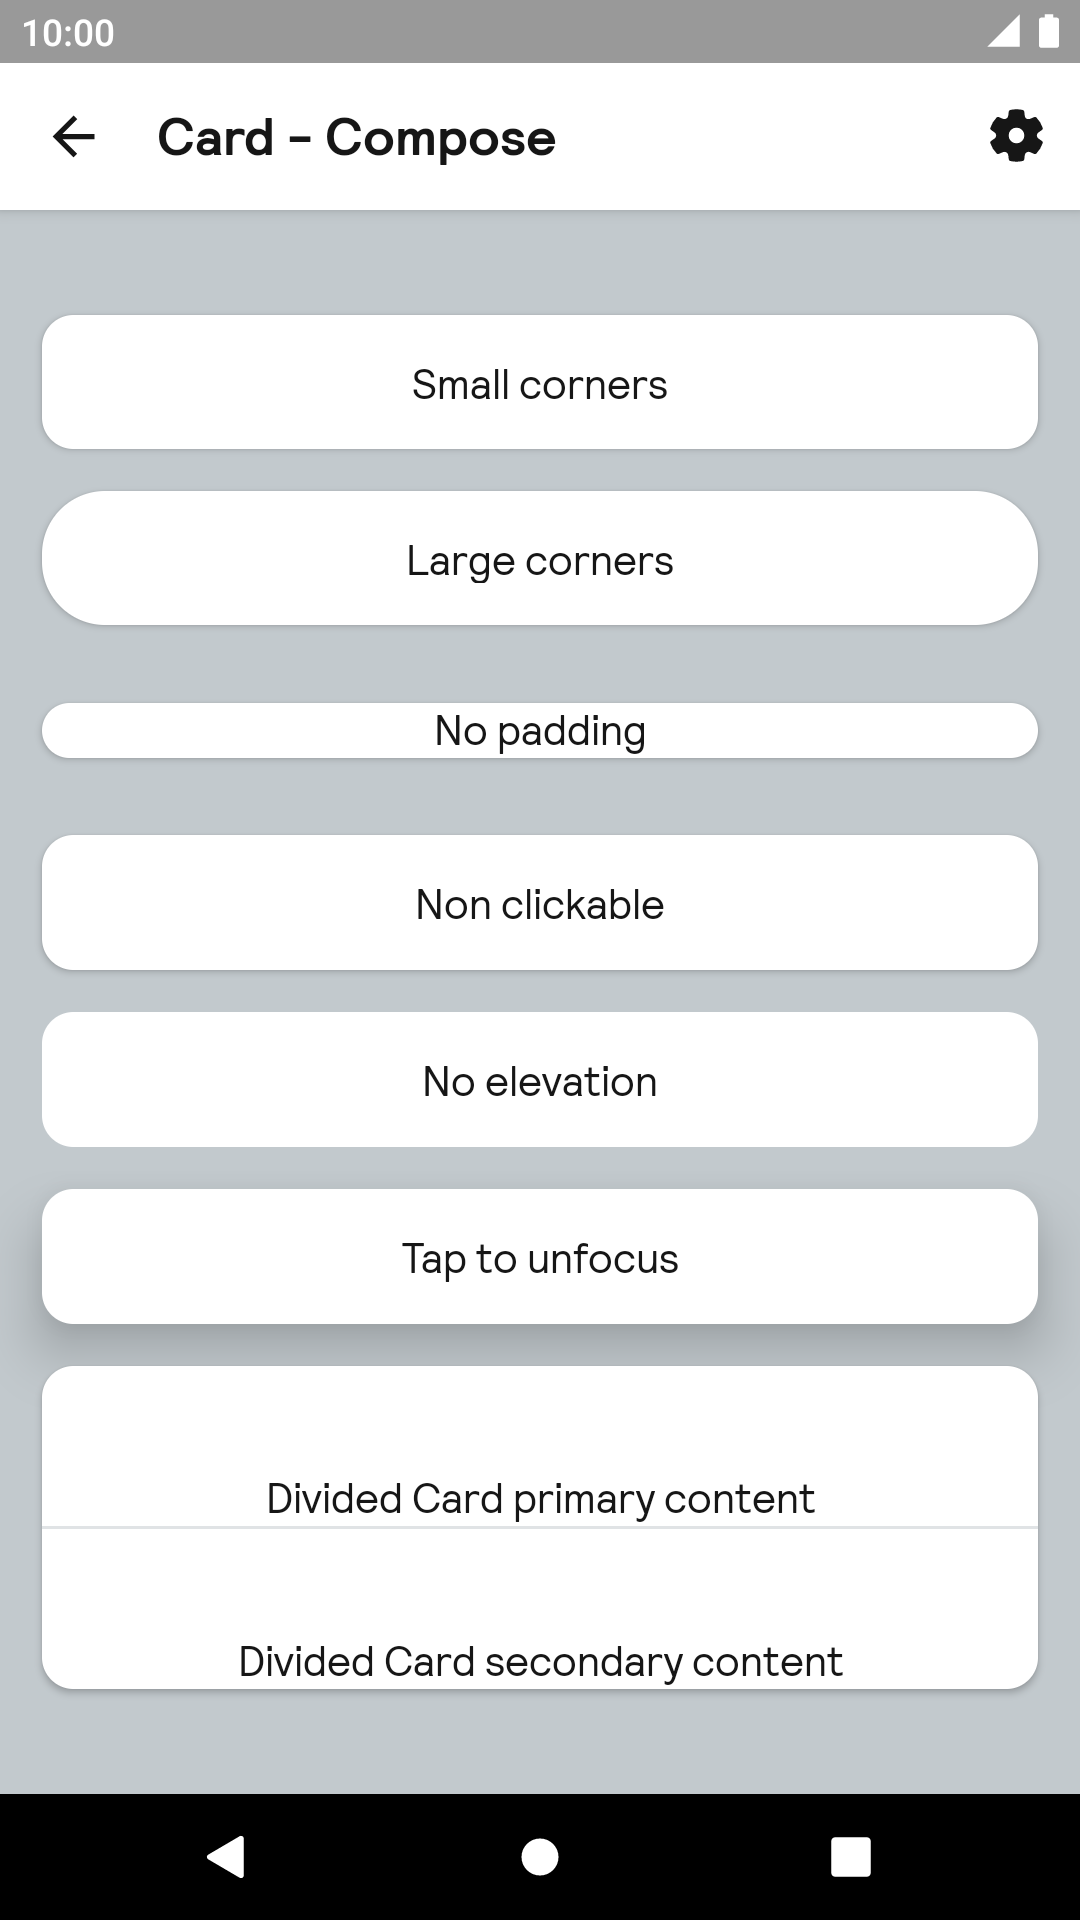
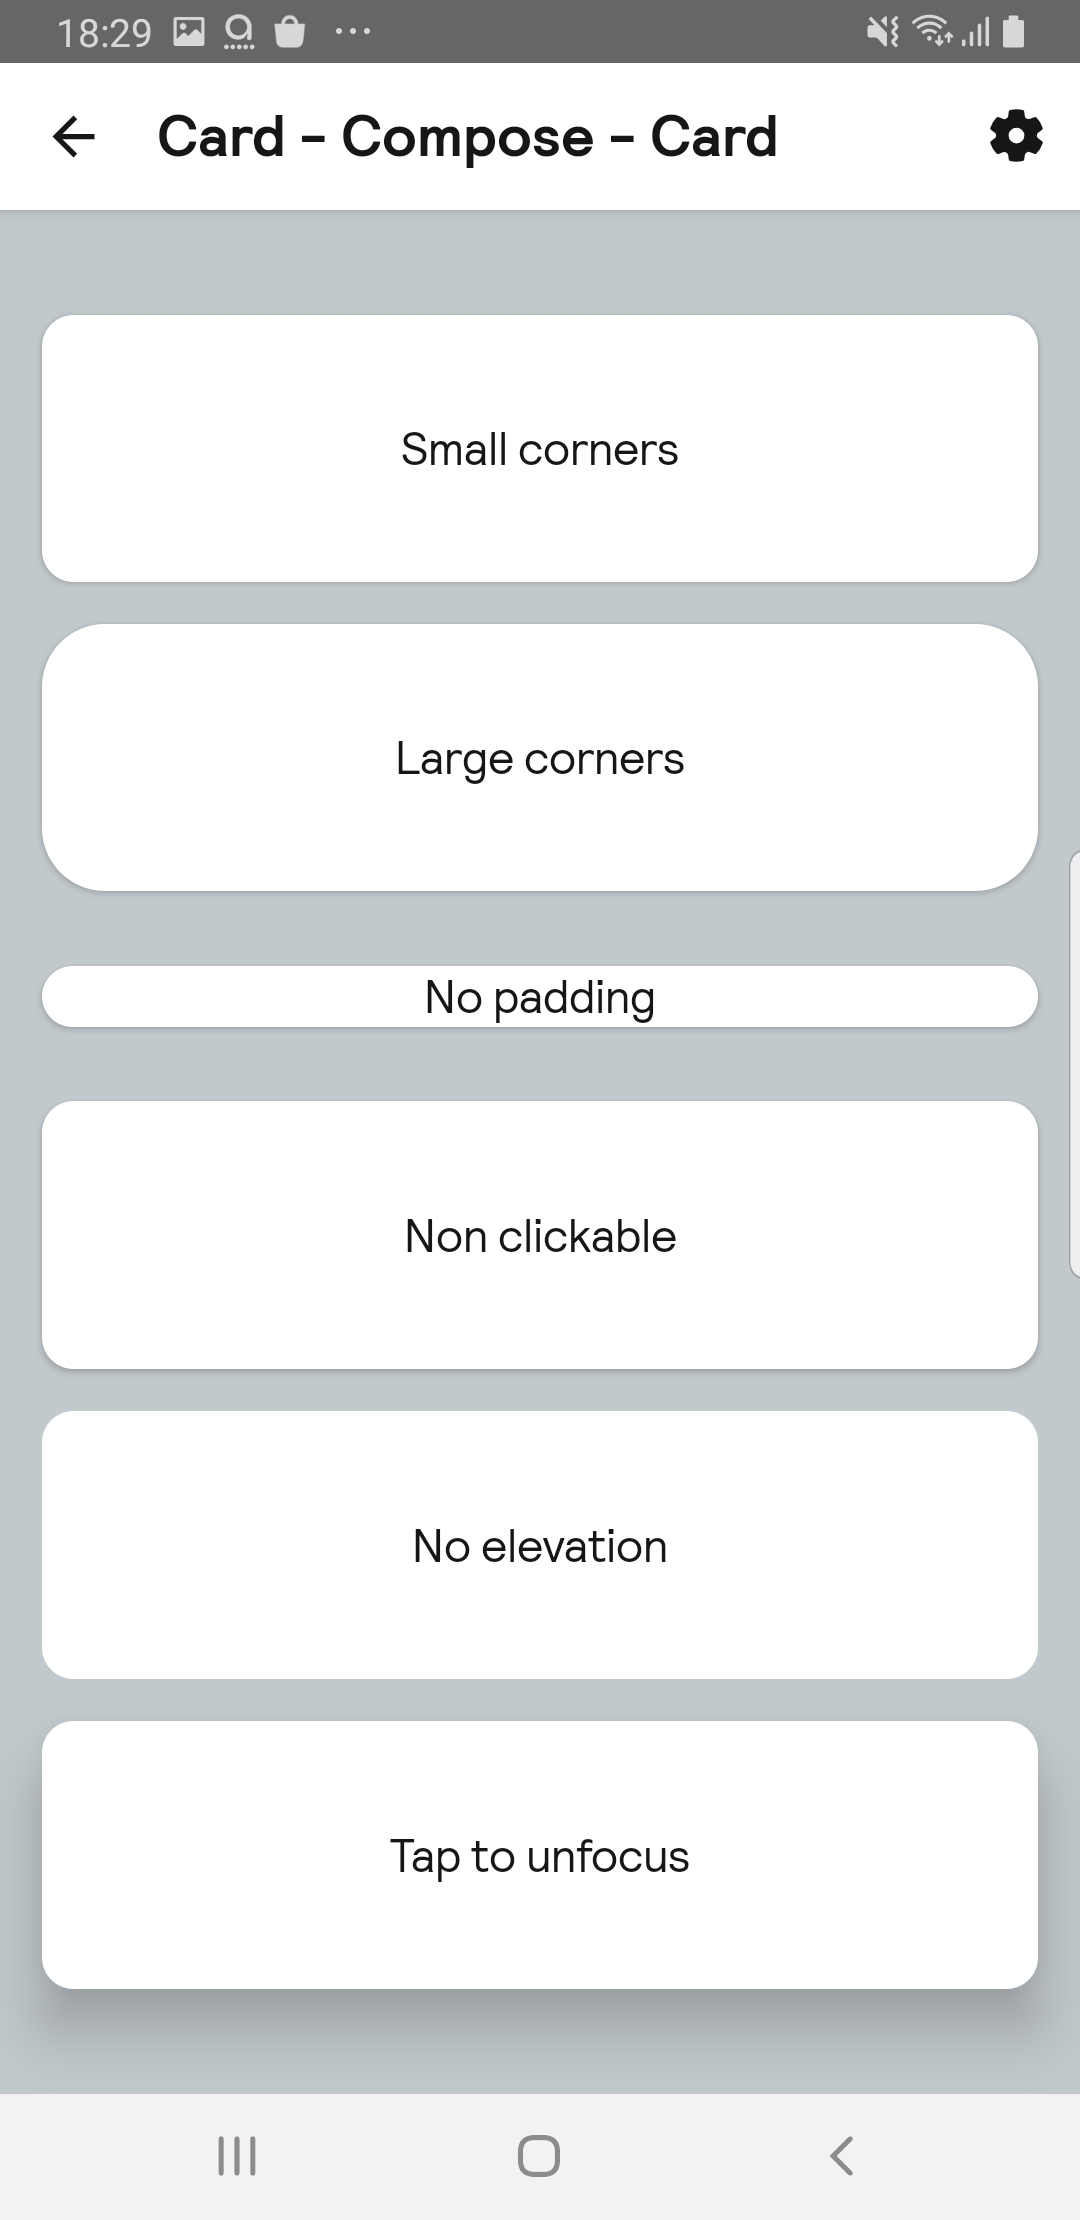
fix screenshots

diff --git a/backpack-compose/src/main/kotlin/net/skyscanner/backpack/compose/cardwrapper/BpkCardWrapper.kt b/backpack-compose/src/main/kotlin/net/skyscanner/backpack/compose/cardwrapper/BpkCardWrapper.kt
@@ -27,41 +27,36 @@ import androidx.compose.material.Card
 import androidx.compose.runtime.Composable
 import androidx.compose.ui.Modifier
 import androidx.compose.ui.graphics.Color
-import androidx.compose.ui.unit.dp
 import net.skyscanner.backpack.compose.card.BpkCard
 import net.skyscanner.backpack.compose.card.BpkCardCorner
 import net.skyscanner.backpack.compose.card.BpkCardElevation
 import net.skyscanner.backpack.compose.card.internal.cardShape
+import net.skyscanner.backpack.compose.tokens.BpkBorderSize
 
 @Composable
 fun BpkCardWrapper(
   backgroundColor: Color,
-  header: @Composable () -> Unit,
+  headerContent: @Composable () -> Unit,
+  cardContent: @Composable () -> Unit,
   modifier: Modifier = Modifier,
   corner: BpkCardCorner = BpkCardCorner.Small,
   elevation: BpkCardElevation = BpkCardElevation.Default,
-  card: @Composable () -> Unit,
 ) {
   Card(
-    modifier = modifier.fillMaxWidth().border(width = 2.dp, color = backgroundColor, shape = cardShape(corner)),
+    modifier = modifier.fillMaxWidth().border(width = BpkBorderSize.Lg, color = backgroundColor, shape = cardShape(corner)),
     backgroundColor = backgroundColor,
     shape = cardShape(corner),
   ) {
     Column {
-      Card(
-        backgroundColor = backgroundColor,
-        elevation = 0.dp,
-      ) {
-        header.invoke()
-      }
+      headerContent.invoke()
       BpkCard(
         modifier = Modifier
           .background(color = backgroundColor, shape = cardShape(corner))
-          .border(width = 2.dp, color = backgroundColor, shape = cardShape(corner))
-          .padding(2.dp),
+          .border(width = BpkBorderSize.Lg, color = backgroundColor, shape = cardShape(corner))
+          .padding(BpkBorderSize.Lg),
         elevation = elevation,
       ) {
-        card.invoke()
+        cardContent.invoke()
       }
     }
   }

diff --git a/app/src/androidTest/java/net/skyscanner/backpack/compose/cardwrapper/BpkCardWrapperTest.kt b/app/src/androidTest/java/net/skyscanner/backpack/compose/cardwrapper/BpkCardWrapperTest.kt
@@ -44,7 +44,7 @@ class BpkCardWrapperTest : BpkSnapshotTest() {
       BpkCardWrapper(
         modifier = Modifier.dividedCardWidth(BpkSpacing.Xxl),
         backgroundColor = BpkTheme.colors.coreEco,
-        header = {
+        headerContent = {
           BpkText(
             modifier = Modifier
               .fillMaxWidth()
@@ -54,7 +54,7 @@ class BpkCardWrapperTest : BpkSnapshotTest() {
             textAlign = TextAlign.Center,
           )
         },
-        card = {
+        cardContent = {
           Image(
             modifier = Modifier
               .height(BpkSpacing.Xxl * 2)
@@ -80,7 +80,7 @@ class BpkCardWrapperTest : BpkSnapshotTest() {
       BpkCardWrapper(
         modifier = Modifier.width(400.dp),
         backgroundColor = BpkTheme.colors.coreEco,
-        header = {
+        headerContent = {
           BpkText(
             modifier = Modifier
               .fillMaxWidth()
@@ -90,7 +90,7 @@ class BpkCardWrapperTest : BpkSnapshotTest() {
             textAlign = TextAlign.Center,
           )
         },
-        card = {
+        cardContent = {
           Image(
             modifier = Modifier
               .height(BpkSpacing.Xxl * 2)
@@ -116,7 +116,7 @@ class BpkCardWrapperTest : BpkSnapshotTest() {
       BpkCardWrapper(
         modifier = Modifier.width(400.dp),
         backgroundColor = BpkTheme.colors.coreEco,
-        header = {
+        headerContent = {
           BpkText(
             modifier = Modifier
               .fillMaxWidth()
@@ -126,7 +126,7 @@ class BpkCardWrapperTest : BpkSnapshotTest() {
             textAlign = TextAlign.Center,
           )
         },
-        card = {
+        cardContent = {
           BpkText(
             modifier = Modifier.fillMaxWidth(),
             text = stringResource(id = R.string.card_wrapper_card),

diff --git a/app/src/main/java/net/skyscanner/backpack/demo/compose/CardWrapperStory.kt b/app/src/main/java/net/skyscanner/backpack/demo/compose/CardWrapperStory.kt
@@ -61,7 +61,7 @@ fun CardWrapperExample(
   BpkCardWrapper(
     modifier = Modifier.fillMaxWidth(),
     backgroundColor = BpkTheme.colors.coreEco,
-    header = {
+    headerContent = {
       Column() {
         BpkText(
           modifier = Modifier.fillMaxWidth().height(BpkSpacing.Xxl),
@@ -71,7 +71,7 @@ fun CardWrapperExample(
         )
       }
     },
-    card = {
+    cardContent = {
       Column() {
         BpkText(
           modifier = Modifier

diff --git a/docs/compose/Card/README.md b/docs/compose/Card/README.md
@@ -110,7 +110,7 @@ import net.skyscanner.backpack.compose.dividedcard.dividedCardWidth
 BpkCardWrapper(
   modifier = Modifier.fillMaxWidth(),
   backgroundColor = BpkTheme.colors.coreEco,
-  header = {
+  headerContent = {
     BpkText(
       modifier = Modifier
         .fillMaxWidth()
@@ -118,7 +118,7 @@ BpkCardWrapper(
       text = stringResource("BpkCardWrapper header sample"),
     )
   },
-  card = {
+  cardContent = {
     Image(
       modifier = Modifier
         .height(BpkSpacing.Xxl * 2)
